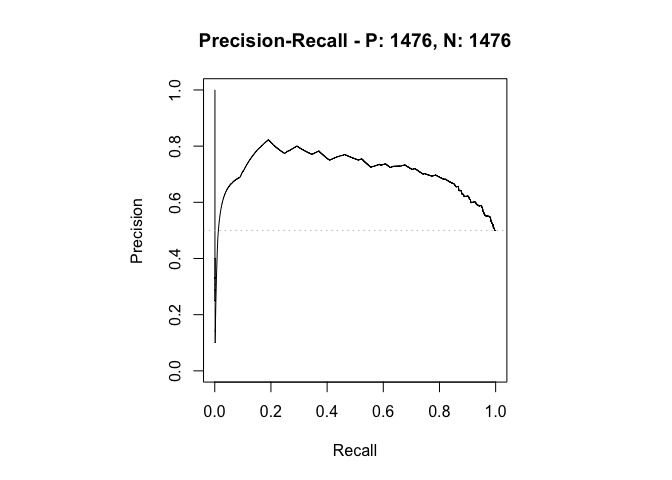
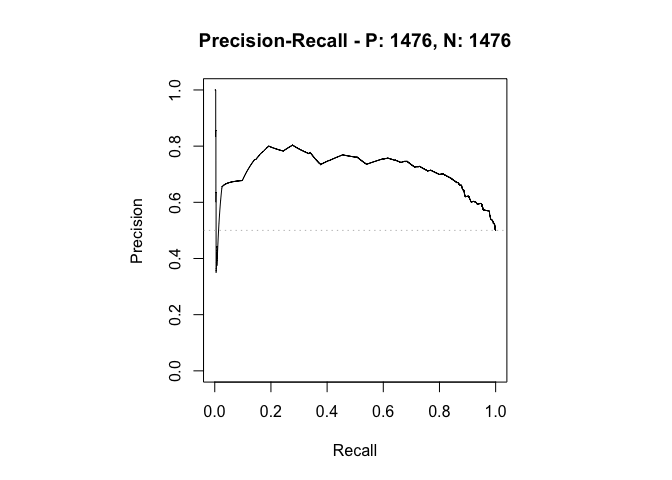
Add files via upload

diff --git a/Final_Project_Submission_.md b/Final_Project_Submission_.md
@@ -41,6 +41,8 @@ twitter_airline$text <- gsub("@VirginAmerica","",gsub("@AmericanAir","",
 
 Here we convert the text into a word corpus using the function VectorSource. A word corpus enables us to eliminate common words using the text mining package tm. Removing the corpus specific stopwords lets us focus on the important words. The puncutations, URLs, anything except english/space and extra white space is removed. The corpus is converted to lower case
 
+#### Initial Corpus
+
     ## <<SimpleCorpus>>
     ## Metadata:  corpus specific: 1, document level (indexed): 0
     ## Content:  documents: 5
@@ -51,15 +53,7 @@ Here we convert the text into a word corpus using the function VectorSource. A w
     ## [4]  it's really aggressive to blast obnoxious "entertainment" in your guests' faces &amp; they have little recourse
     ## [5]  and it's a really big bad thing about it
 
-    ## <<SimpleCorpus>>
-    ## Metadata:  corpus specific: 1, document level (indexed): 0
-    ## Content:  documents: 5
-    ## 
-    ## [1]   dhepburn said                                                                     
-    ## [2]  plus youve added commercials   experience tacky                                    
-    ## [3]   didnt today must mean  need  take another trip                                    
-    ## [4]   really aggressive  blast obnoxious entertainment   guests faces    little recourse
-    ## [5]     really big bad thing
+#### Final Corpus
 
     ## <<SimpleCorpus>>
     ## Metadata:  corpus specific: 1, document level (indexed): 0
@@ -164,19 +158,19 @@ ROC curves are plotted for the all the cross validated models to check the signi
 
     ## [1] "AUC of Unigram Positive"
 
-    ## [1] 0.7256763
+    ## [1] 0.7304781
 
 ![](Final_Project_Submission__files/figure-markdown_github/ROC%20curve%20for%20Logistic%20Regression-1.png)
 
     ## [1] "AUC of Bigram Positive"
 
-    ## [1] 0.7179339
+    ## [1] 0.7162821
 
 ![](Final_Project_Submission__files/figure-markdown_github/ROC%20curve%20for%20Logistic%20Regression-2.png)
 
     ## [1] "AUC of Trigram Positive"
 
-    ## [1] 0.7178556
+    ## [1] 0.7270607
 
 ![](Final_Project_Submission__files/figure-markdown_github/ROC%20curve%20for%20Logistic%20Regression-3.png)
 
@@ -186,25 +180,25 @@ cross validation is performed using Naive Bayes with entire training dataset on 
 
     ## [1] "AUC of Bigram Positive"
 
-    ## [1] 0.7991723
+    ## [1] 0.8071543
 
 ![](Final_Project_Submission__files/figure-markdown_github/ROC%20curves%20for%20entire%20training%20dataset-1.png)
 
     ## [1] "AUC PR of Bigram Positive"
 
-    ## [1] 0.791645
+    ## [1] 0.7994873
 
 ![](Final_Project_Submission__files/figure-markdown_github/ROC%20curves%20for%20entire%20training%20dataset-2.png)
 
     ## [1] "AUC of Trigam Positive"
 
-    ## [1] 0.770367
+    ## [1] 0.77943
 
 ![](Final_Project_Submission__files/figure-markdown_github/ROC%20curves%20for%20entire%20training%20dataset-3.png)
 
     ## [1] "AUC PR of Trigram Positive"
 
-    ## [1] 0.7120925
+    ## [1] 0.7185123
 
 ![](Final_Project_Submission__files/figure-markdown_github/ROC%20curves%20for%20entire%20training%20dataset-4.png)
 
@@ -216,13 +210,13 @@ Cross validation is performed using Naive Bayes with entire test dataset on all 
 
     ## [1] "AUC of Bigram Positive"
 
-    ## [1] 0.7443438
+    ## [1] 0.74943
 
 ![](Final_Project_Submission__files/figure-markdown_github/ROC%20Curve%20for%20test%20dataset-1.png)
 
     ## [1] "AUC PR of Bigram Positive"
 
-    ## [1] 0.1282897
+    ## [1] 0.1342087
 
 ![](Final_Project_Submission__files/figure-markdown_github/ROC%20Curve%20for%20test%20dataset-2.png)
 
@@ -242,4 +236,4 @@ The bigram positive model was the best performing model on the entire testing da
 
 3.Stemming could have provided better insights by reducing the repetition of terms
 
-Note : The sentiment analysis for individual airlines and code can be found \[here\] (<https://github.com/prashijp/Capstone-Project>)
+Note : The sentiment analysis for individual airlines and code can be found at <https://github.com/prashijp/Capstone-Project>
